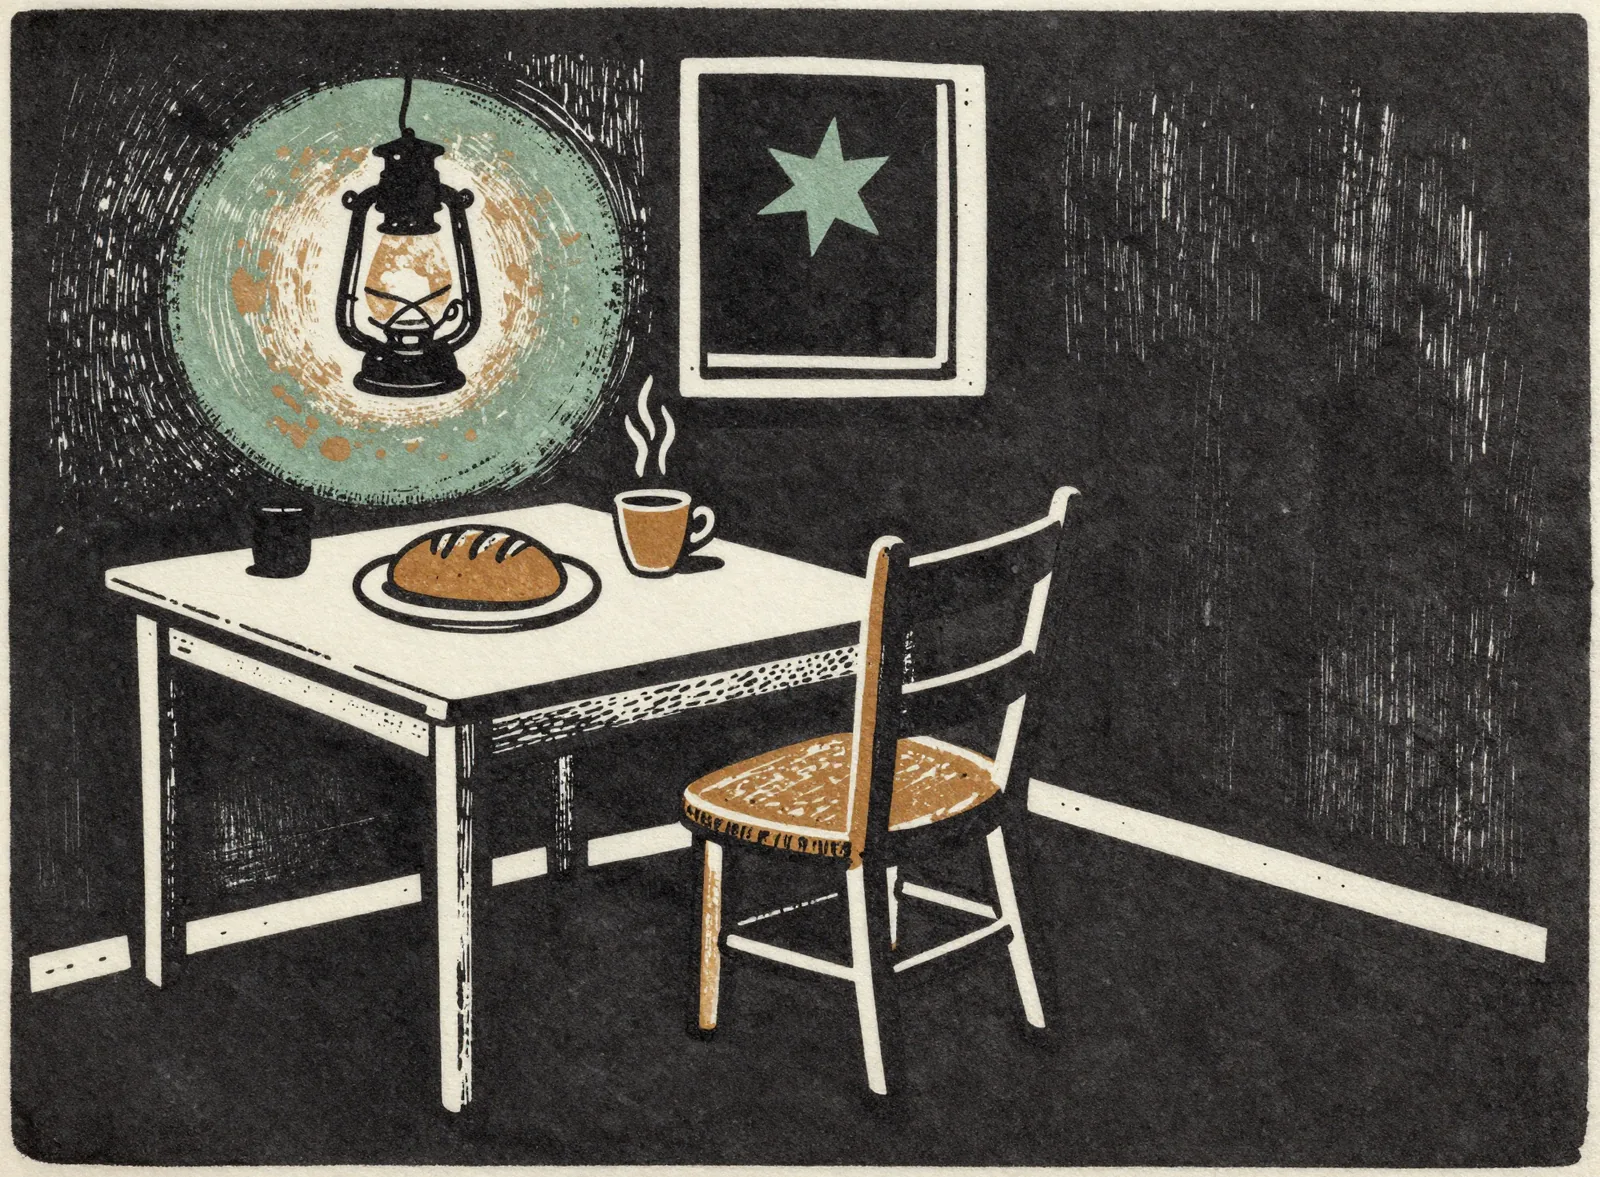
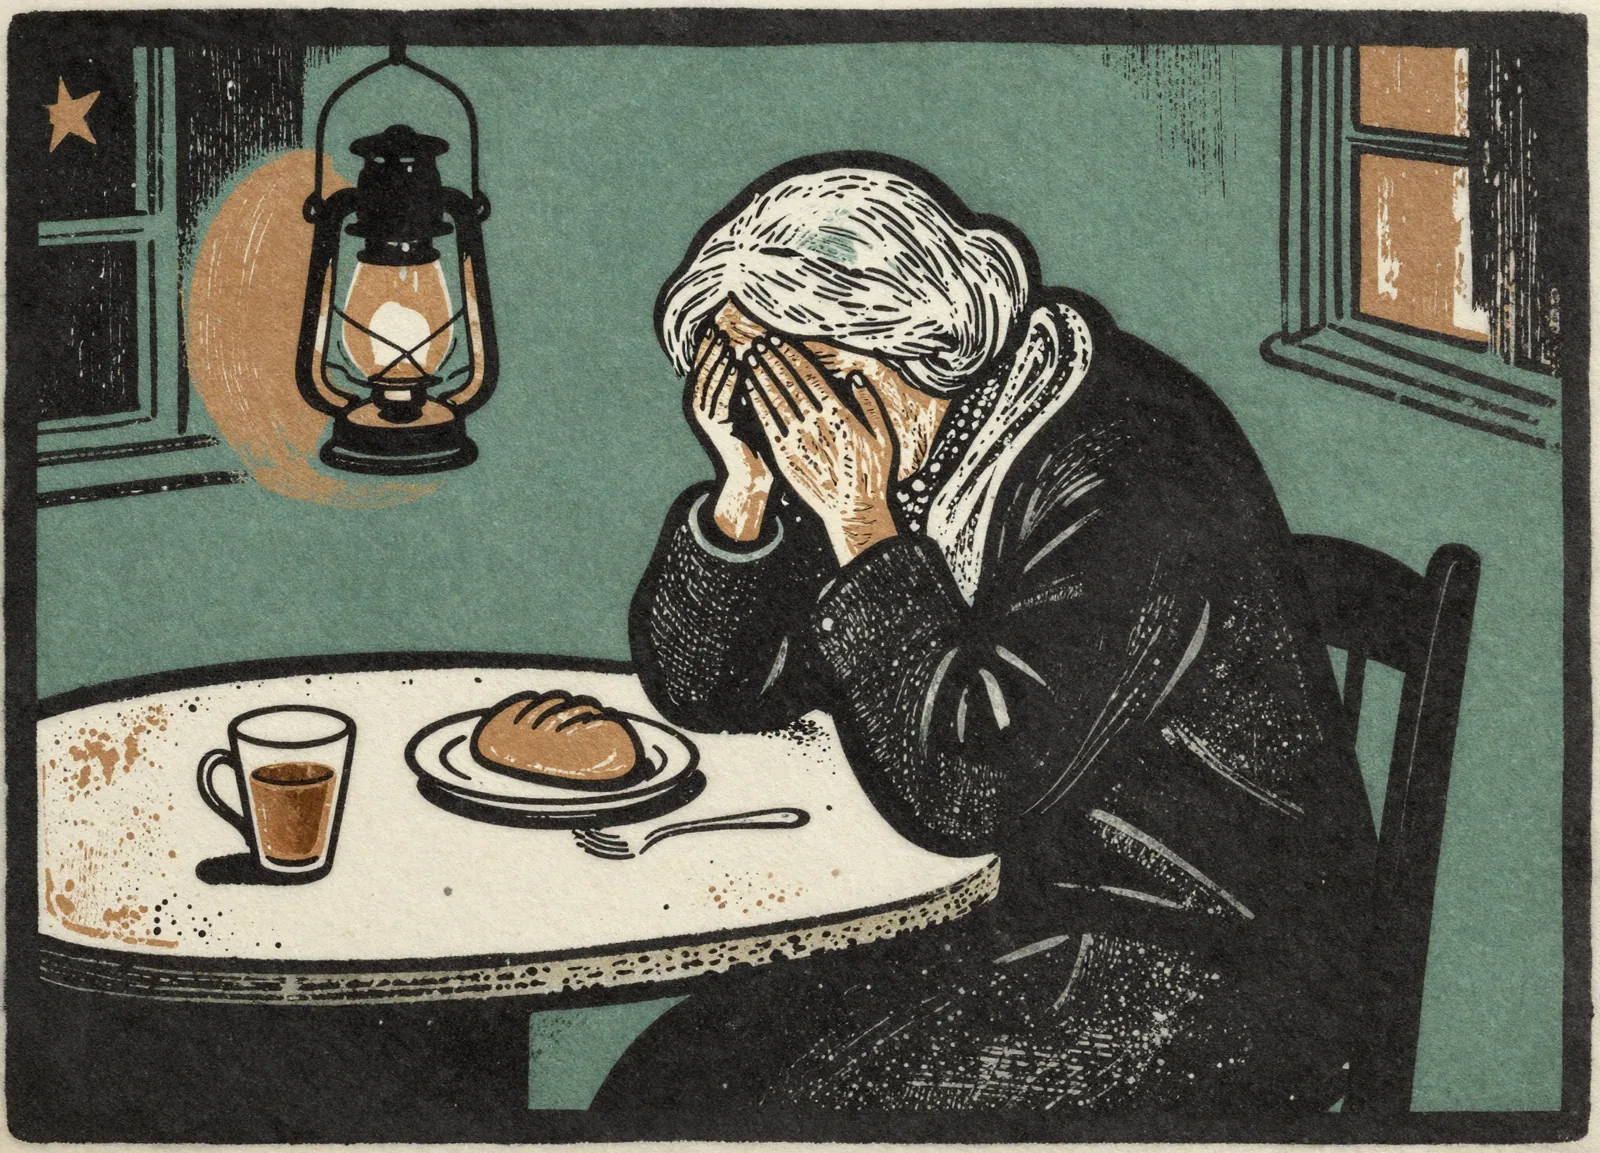
feat(design): the widow's table shows her — grieving figure by founder's key
Replaces the empty-corner one_place print: she sits alone under the
lamp, head in her hands, loaf untouched, one star in the window — the
scene the beliefs copy names first. First figure in the suite, keyed
explicitly (the no-figures rule stands elsewhere). Adds the project
ruff auto-heal PostToolUse hook. CHANGELOG carries the border-crop and
widow notes.

diff --git a/templates/illustrations/_one_place.html b/templates/illustrations/_one_place.html
@@ -1,7 +1,11 @@
-{% comment %}Parish Linocut — original UMI illustration. One place set — the widow's table. One chair pulled out, one plate, the lamp lit, a star in the window.
-   Two-plate relief print in the Commons palette (stone paper, espresso ink,
-   evergreen + bronze), generated suite 2026-07-14. Decorative.{% endcomment %}
+{% comment %}Parish Linocut — original UMI illustration. One place set — the
+   widow's table. She sits alone under the lamp, head bowed into her hands,
+   weeping; the loaf untouched, the tea gone cold, one star in the night
+   window. The scene the beliefs page names first — the grief we have all
+   already seen. Two-plate relief print in the Commons palette (stone paper,
+   espresso ink, evergreen + bronze), generated suite 2026-07-14 (figure by
+   the founder's key). Decorative.{% endcomment %}
 {% load static %}
 <img src="{% static 'img/scenes/one_place.webp' %}" data-scene="one_place" alt=""
-     class="{{ class|default:'w-full h-auto' }}" width="1600" height="1177"
+     class="{{ class|default:'w-full h-auto' }}" width="1600" height="1153"
      decoding="async">

diff --git a/STATE.md b/STATE.md
@@ -90,7 +90,7 @@
 Do not assume/reintroduce: Stripe billing, Twilio SMS, Chart.js dashboards, blog, scheduled email digests (only an `email_digest` config key), account-deletion flow, **in-app chat** (deliberate — see Protocol section), REST/DRF API (federation speaks its own signed endpoints). (Service worker exists **only** for casework offline capture — not a site-wide PWA.)
 
 ## Repo state / open items
-- **In-flight (`design/print-polish`, 2026-07-14):** M2 ✅ CLAUDE.md rules · M3 ✅ prints cropped to frame (webps regenerated, per-scene dims, plates p-2). Next: M4 widow scene redo (his key: grieving figure).
+- **In-flight (`design/print-polish`, 2026-07-14):** M2 ✅ CLAUDE.md rules · M3 ✅ prints cropped to frame · M4 ✅ widow scene (grieving figure, his key; first figure in the suite). Gate + his merge key pending.
 - All feature work merged to `main`: Lakes 1+2, envelope A–E + retention sweeps, Federation v1
   (A–E), moderation, hub v2, the full 2026-07 product backlog (onboarding, search, connect
   moment, wizard, resources, consented email), The Commons design system + illustration suite.

diff --git a/CHANGELOG.md b/CHANGELOG.md
@@ -8,6 +8,10 @@
 - **New pictures** — the scenes on the story pages and around the board are now real
   two-colour block prints: the well, the lamplit door, bread passing hand to hand, the
   shared harvest basket, the one place set, the garden hill, the notice board.
+- **The widow's table shows her now** — the first scene on the beliefs page carries the
+  grief it names: a widow alone at her table, head in her hands, the loaf untouched.
+- **Pictures sit tighter in their frames** — the extra paper edge around each print is
+  gone, so they read as prints on the page, not pictures in white boxes.
 
 ## 2026-07-13
 
